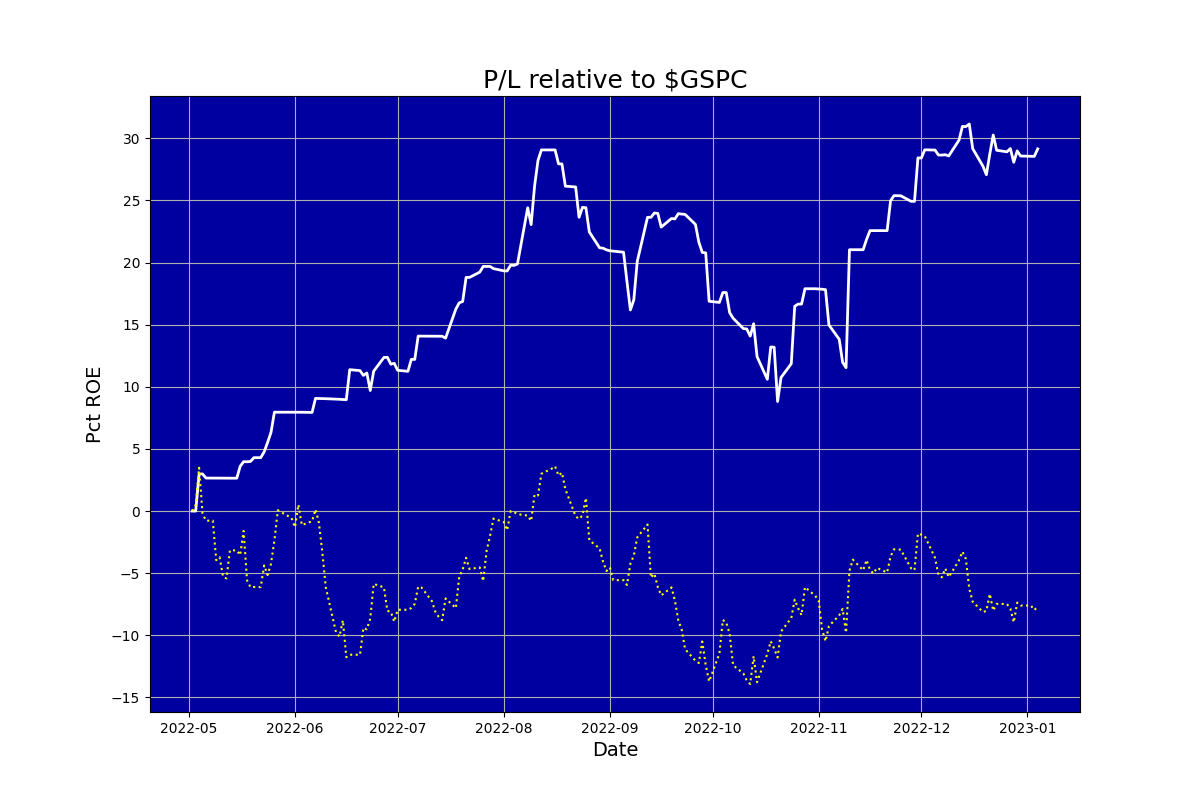
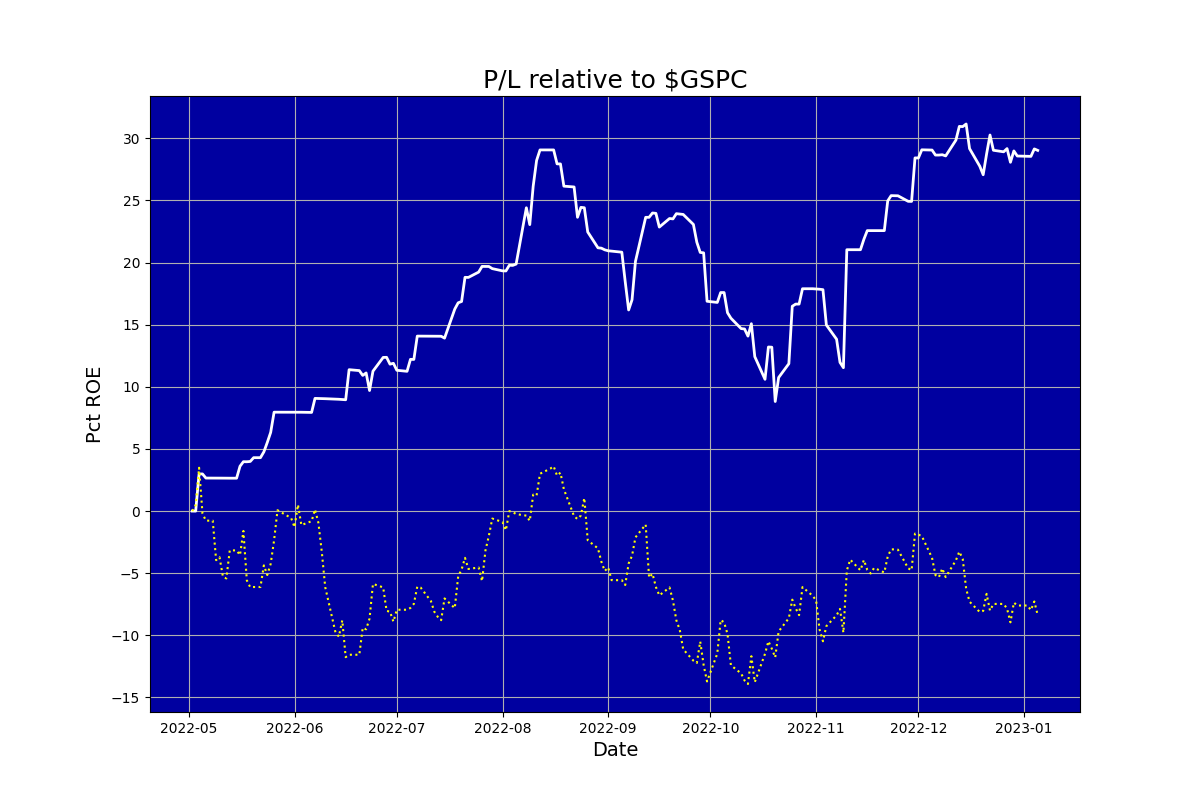
Updated

diff --git a/ig_report.html b/ig_report.html
@@ -1,1 +1,1 @@
-<html><body><center><h1>Auriel (never knowingly overbought)</h1></center><table cols=2><tr><td><img src=ig_pl.png></td><td><table cols=2><tr><td colspan=2><b><br>Snapshot</b></td></tr><tr><td>Last updated:&nbsp;&nbsp;&nbsp;</td><td>2023-01-04 15:58</td></tr><tr><td>Margin:&nbsp;&nbsp;&nbsp;</td><td>0.40</td></tr><tr><td>Cushion:&nbsp;&nbsp;&nbsp;</td><td>-3244.18</td></tr><tr><td>Last closed trade:&nbsp;&nbsp;&nbsp;</td><td>2023-01-04</td></tr><tr><td colspan=2><b><br>Positions</b></td></tr><tr><td>Mean days to new high:&nbsp;&nbsp;&nbsp;</td><td>12.02</td></tr><tr><td colspan=2><b><br>Trades</b></td></tr><tr><td>Traded days:&nbsp;&nbsp;&nbsp;</td><td>180</td></tr><tr><td>Profitable days pct:&nbsp;&nbsp;&nbsp;</td><td>34.44</td></tr><tr><td>Days beat S&P pct:&nbsp;&nbsp;&nbsp;</td><td>58.48</td></tr><tr><td>Profitable months pct:&nbsp;&nbsp;&nbsp;</td><td>88.89</td></tr><tr><td colspan=2><b><br>Performance</b></td></tr><tr><td>Pct median monthly ROE:&nbsp;&nbsp;&nbsp;</td><td>1.43</td></tr><tr><td>Pct annualised ROE:&nbsp;&nbsp;&nbsp;</td><td>37.37</td></tr><tr><td colspan=2><b><br>Risk</b></td></tr><tr><td>Volatility pct:&nbsp;&nbsp;&nbsp;</td><td>19.31</td></tr><tr><td>Benchmark volatility pct:&nbsp;&nbsp;&nbsp;</td><td>24.87</td></tr><tr><td>Sharpe ratio (RFR 5.0%):&nbsp;&nbsp;&nbsp;</td><td>1.77</td></tr><tr><td>Sortino ratio (RFR 5.0%):&nbsp;&nbsp;&nbsp;</td><td>2.92</td></tr><tr><td>Calmar ratio:&nbsp;&nbsp;&nbsp;</td><td>1.85</td></tr><tr><td>Worst drawdown pct:&nbsp;&nbsp;&nbsp;</td><td>-0.20</td></tr><tr><td>Recovery days from worst drawdown:&nbsp;&nbsp;&nbsp;</td><td>31.00</td></tr><tr><td>Beat benchmark +ve periods pct:&nbsp;&nbsp;&nbsp;</td><td>81.31</td></tr><tr><td>Beat benchmark -ve periods pct:&nbsp;&nbsp;&nbsp;</td><td>89.80</td></tr><tr><td>Correlation with benchmark:&nbsp;&nbsp;&nbsp;</td><td>0.41</td></tr></table></td></tr></table></body></html>
+<html><body><center><h1>Auriel (never knowingly overbought)</h1></center><table cols=2><tr><td><img src=ig_pl.png></td><td><table cols=2><tr><td colspan=2><b><br>Snapshot</b></td></tr><tr><td>Last updated:&nbsp;&nbsp;&nbsp;</td><td>2023-01-05 15:58</td></tr><tr><td>Margin:&nbsp;&nbsp;&nbsp;</td><td>0.38</td></tr><tr><td>Cushion:&nbsp;&nbsp;&nbsp;</td><td>-3533.95</td></tr><tr><td>Last closed trade:&nbsp;&nbsp;&nbsp;</td><td>2023-01-05</td></tr><tr><td colspan=2><b><br>Positions</b></td></tr><tr><td>Mean days to new high:&nbsp;&nbsp;&nbsp;</td><td>11.98</td></tr><tr><td colspan=2><b><br>Trades</b></td></tr><tr><td>Traded days:&nbsp;&nbsp;&nbsp;</td><td>181</td></tr><tr><td>Profitable days pct:&nbsp;&nbsp;&nbsp;</td><td>34.25</td></tr><tr><td>Days beat S&P pct:&nbsp;&nbsp;&nbsp;</td><td>57.56</td></tr><tr><td>Profitable months pct:&nbsp;&nbsp;&nbsp;</td><td>88.89</td></tr><tr><td colspan=2><b><br>Performance</b></td></tr><tr><td>Pct median monthly ROE:&nbsp;&nbsp;&nbsp;</td><td>1.43</td></tr><tr><td>Pct annualised ROE:&nbsp;&nbsp;&nbsp;</td><td>37.03</td></tr><tr><td colspan=2><b><br>Risk</b></td></tr><tr><td>Volatility pct:&nbsp;&nbsp;&nbsp;</td><td>19.26</td></tr><tr><td>Benchmark volatility pct:&nbsp;&nbsp;&nbsp;</td><td>24.85</td></tr><tr><td>Sharpe ratio (RFR 5.0%):&nbsp;&nbsp;&nbsp;</td><td>1.76</td></tr><tr><td>Sortino ratio (RFR 5.0%):&nbsp;&nbsp;&nbsp;</td><td>2.90</td></tr><tr><td>Calmar ratio:&nbsp;&nbsp;&nbsp;</td><td>1.83</td></tr><tr><td>Worst drawdown pct:&nbsp;&nbsp;&nbsp;</td><td>-0.20</td></tr><tr><td>Recovery days from worst drawdown:&nbsp;&nbsp;&nbsp;</td><td>31.00</td></tr><tr><td>Beat benchmark +ve periods pct:&nbsp;&nbsp;&nbsp;</td><td>81.40</td></tr><tr><td>Beat benchmark -ve periods pct:&nbsp;&nbsp;&nbsp;</td><td>89.92</td></tr><tr><td>Correlation with benchmark:&nbsp;&nbsp;&nbsp;</td><td>0.41</td></tr></table></td></tr></table></body></html>
